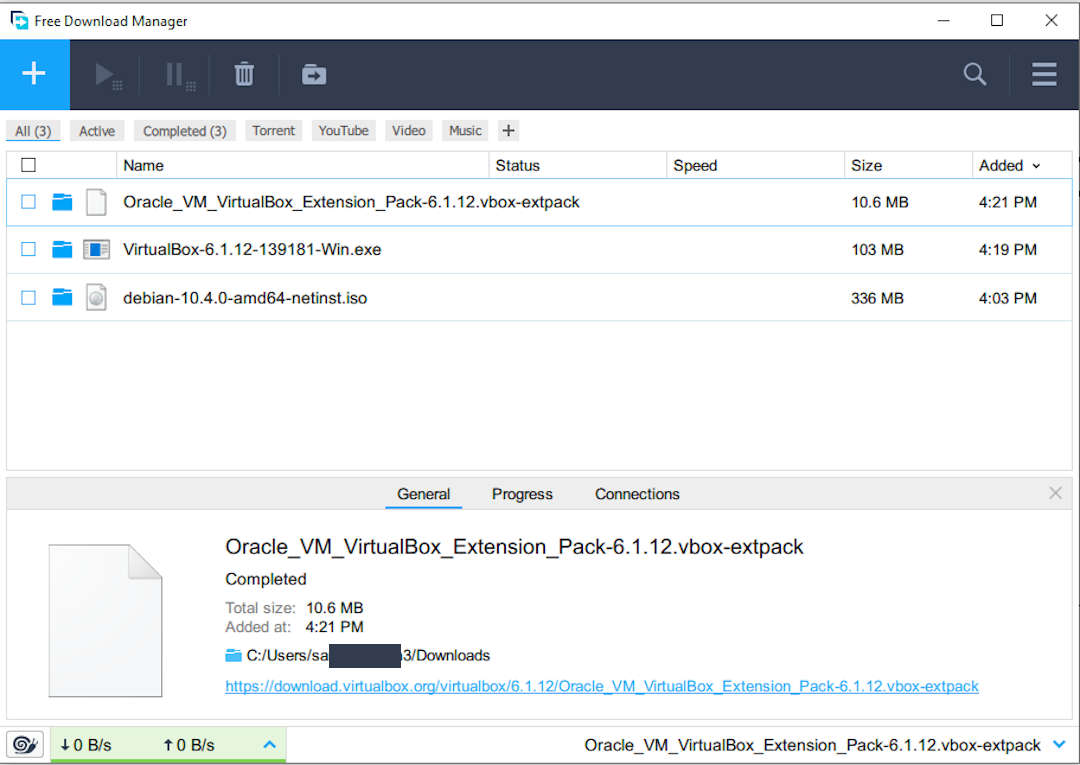
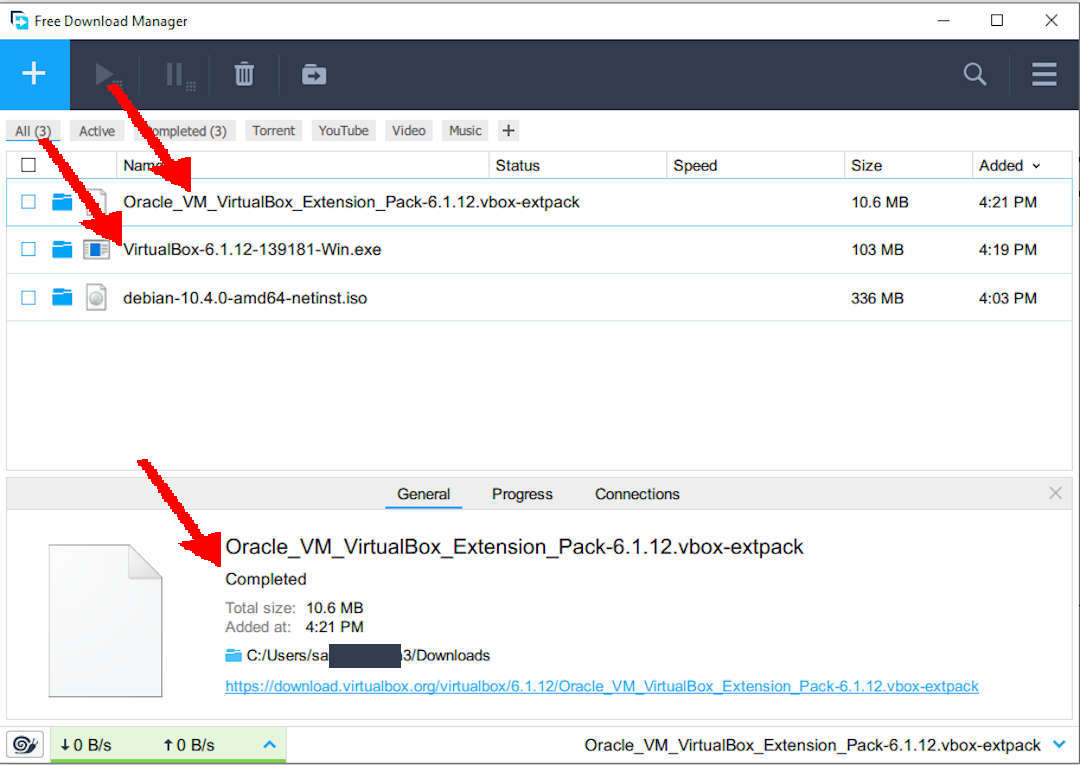
modified:   DebianGuestOnVirtualBox.md modified:   DebianISOImage.md modified:   InstallDebianNetinst.md modified:   InstallFDM.md new file:   InstallVirtualBox.md modified:   README.md modified:   _config.yml modified:   index.md modified:   pictures/E-OSP-03.jpg

Changed region(s): [[0.0917, 0.0902, 0.1833, 0.2706], [0.1222, 0.6013, 0.2139, 0.7516], [0.0306, 0.1804, 0.1222, 0.3307]]

diff --git a/InstallVirtualBox.md b/InstallVirtualBox.md
@@ -1,0 +1,63 @@
+---
+---
+
+[HOME](index.md)
+[ABOUT](README.md)
+[WEB](https://osp4diss.vlsm.org/)
+[GITHUB](https://github.com/UI-FASILKOM-OS/osp4diss/)
+
+# Downloading and Installing VirtualBox
+
+<br>
+## URL: [VirtualBox.org](https://www.virtualbox.org/wiki/Downloads)
+
+<img src="pictures/E-OSP-00.jpg"  width="960">
+
+<br>
+## The Free Download Manager (FDM)
+
+Use this Free Download Manager if your internet link is slow and less reliable.
+Otherwise, download with a regular browser like Firefox.
+
+<img src="pictures/E-OSP-01.jpg"  width="960">
+
+<img src="pictures/E-OSP-02.jpg"  width="960">
+
+<img src="pictures/E-OSP-03.jpg"  width="960">
+
+<img src="pictures/A-OSP-08.jpg"  width="960">
+
+<img src="pictures/E-OSP-05.jpg"  width="960">
+
+<img src="pictures/E-OSP-06.jpg"  width="960">
+
+<img src="pictures/E-OSP-07.jpg"  width="960">
+
+<img src="pictures/E-OSP-08.jpg"  width="960">
+
+<img src="pictures/E-OSP-09.jpg"  width="960">
+
+<img src="pictures/A-OSP-11.jpg"  width="960">
+
+<br>
+## Adding VirtualBox Extension
+
+<img src="pictures/A-OSP-12.jpg"  width="960">
+
+<img src="pictures/A-OSP-13.jpg"  width="960">
+
+<img src="pictures/A-OSP-14.jpg"  width="960">
+
+<img src="pictures/A-OSP-15.jpg"  width="960">
+
+<img src="pictures/A-OSP-16.jpg"  width="960">
+
+<img src="pictures/A-OSP-17.jpg"  width="960">
+
+<br>
+## The VirtualBox and its Extension Pack are ready!
+
+<br>
+<hr>
+<br>
+

diff --git a/index.md b/index.md
@@ -1,8 +1,8 @@
 ---
 ---
 
-[INDEX](index.md)
-[README](README.md)
+[HOME](index.md)
+[ABOUT](README.md)
 [WEB](https://osp4diss.vlsm.org/)
 [GITHUB](https://github.com/UI-FASILKOM-OS/osp4diss/)
 
@@ -10,7 +10,10 @@
 
 * [Installing Free Download Manager (FDM)](InstallFDM.html)
 * [Downloading Debian ISO Image](DebianISOImage.html)
+* [Downloading and Installing VirtualBox](InstallVirtualBox.html)
 * [Creating a Debian Guest on VirtualBox](DebianGuestOnVirtualBox.html)
 * [Installing Debian Netinst Guest on VirtualBox](InstallDebianNetinst.html)
 
-
+<br>
+<hr>
+<br>

diff --git a/DebianISOImage.md b/DebianISOImage.md
@@ -1,8 +1,8 @@
 ---
 ---
 
-[INDEX](index.md)
-[README](README.md)
+[HOME](index.md)
+[ABOUT](README.md)
 [WEB](https://osp4diss.vlsm.org/)
 [GITHUB](https://github.com/UI-FASILKOM-OS/osp4diss/)
 
@@ -18,6 +18,9 @@
 <br>
 ## Runing Free Download Manager
 
+Use this Free Download Manager if your internet link is slow and less reliable.
+Otherwise, download with a regular browser like Firefox.
+
 <img src="pictures/D-OSP-00.jpg"  width="960">
 
 <br>
@@ -32,4 +35,5 @@
 <img src="pictures/D-OSP-05.jpg"  width="960">
 
 <br>
-## DONE!
+<hr>
+<br>

diff --git a/InstallFDM.md b/InstallFDM.md
@@ -1,12 +1,15 @@
 ---
 ---
 
-[INDEX](index.md)
-[README](README.md)
+[HOME](index.md)
+[ABOUT](README.md)
 [WEB](https://osp4diss.vlsm.org/)
 [GITHUB](https://github.com/UI-FASILKOM-OS/osp4diss/)
 
 # The Free Download Manager (FDM)
+
+Use this Free Download Manager if your internet link is slow and less reliable.
+Otherwise, download with a regular browser like Firefox.
 
 <br>
 ## Downloading FDM
@@ -42,4 +45,7 @@
 
 <img src="pictures/C-OSP-08.jpg"  width="960">
 
+<br>
+<hr>
+<br>
 

diff --git a/README.md b/README.md
@@ -2,8 +2,8 @@
 ---
 # About Operating System Programming 4DISS
 
-[INDEX](index.md)
-[README](README.md)
+[HOME](index.md)
+[ABOUT](README.md)
 [WEB](https://osp4diss.vlsm.org/)
 [GITHUB](https://github.com/UI-FASILKOM-OS/osp4diss/)
 
@@ -11,6 +11,7 @@ This site is about Operating Systems and Programming.
 It is "**4DISS**" (for Diss) because the term "**For Dummies**" is already taken!
 What is "**4DISS**"?  I do not know!  Do you?
 
-Jolan Tru!
-
+<br>
+<hr>
+<br>
 

diff --git a/DebianGuestOnVirtualBox.md b/DebianGuestOnVirtualBox.md
@@ -1,8 +1,8 @@
 ---
 ---
 
-[INDEX](index.md)
-[README](README.md)
+[HOME](index.md)
+[ABOUT](README.md)
 [WEB](https://osp4diss.vlsm.org/)
 [GITHUB](https://github.com/UI-FASILKOM-OS/osp4diss/)
 
@@ -109,4 +109,8 @@
 <img src="pictures/A-OSP-40.jpg"  width="960">
 
 <img src="pictures/A-OSP-41.jpg"  width="960">
+
+<br>
+<hr>
+<br>
 

diff --git a/InstallDebianNetinst.md b/InstallDebianNetinst.md
@@ -1,8 +1,8 @@
 ---
 ---
 
-[INDEX](index.md)
-[README](README.md)
+[HOME](index.md)
+[ABOUT](README.md)
 [WEB](https://osp4diss.vlsm.org/)
 [GITHUB](https://github.com/UI-FASILKOM-OS/osp4diss/)
 
@@ -118,4 +118,8 @@
 <img src="pictures/B-OSP-48.jpg"  width="960">
 
 <img src="pictures/B-OSP-49.jpg"  width="960">
+
+<br>
+<hr>
+<br>
 
